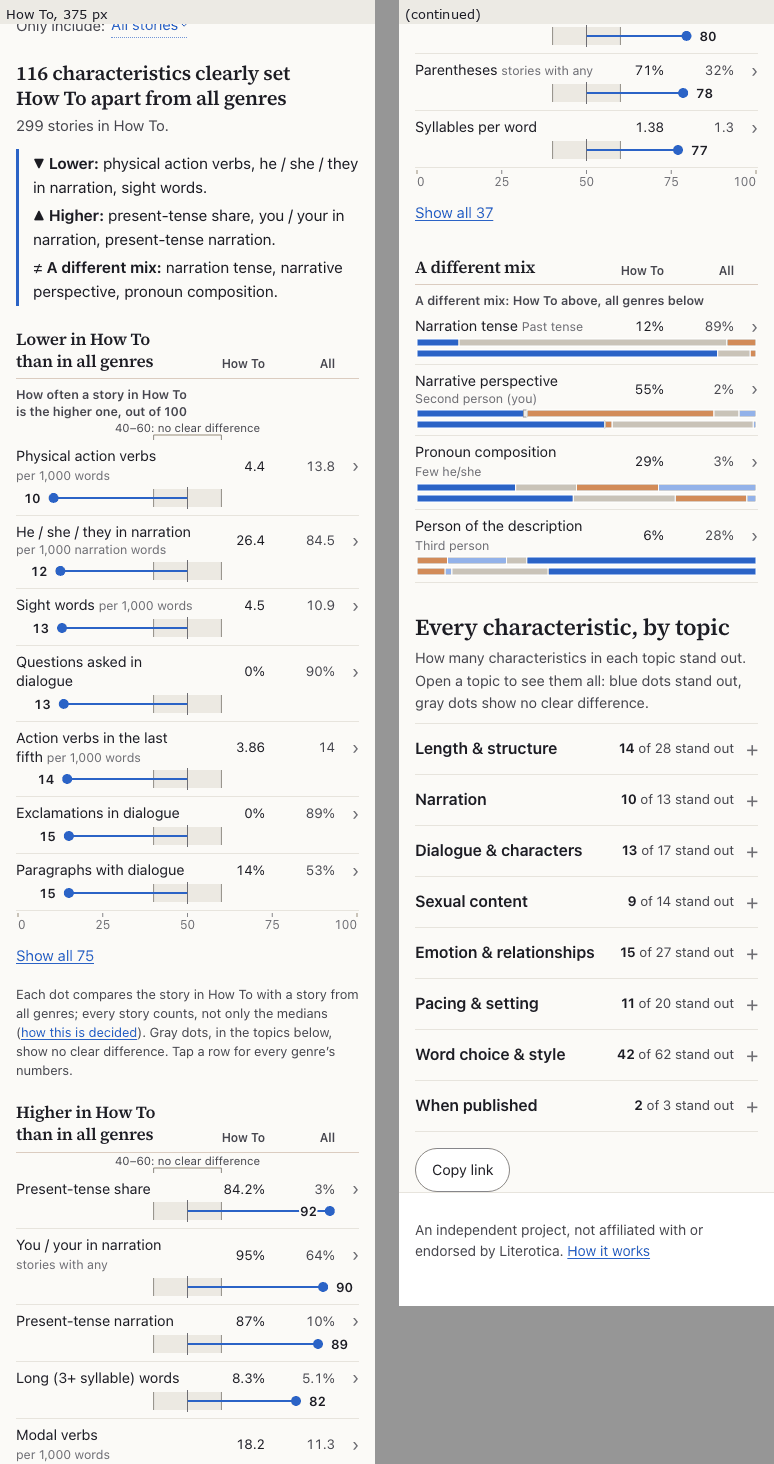
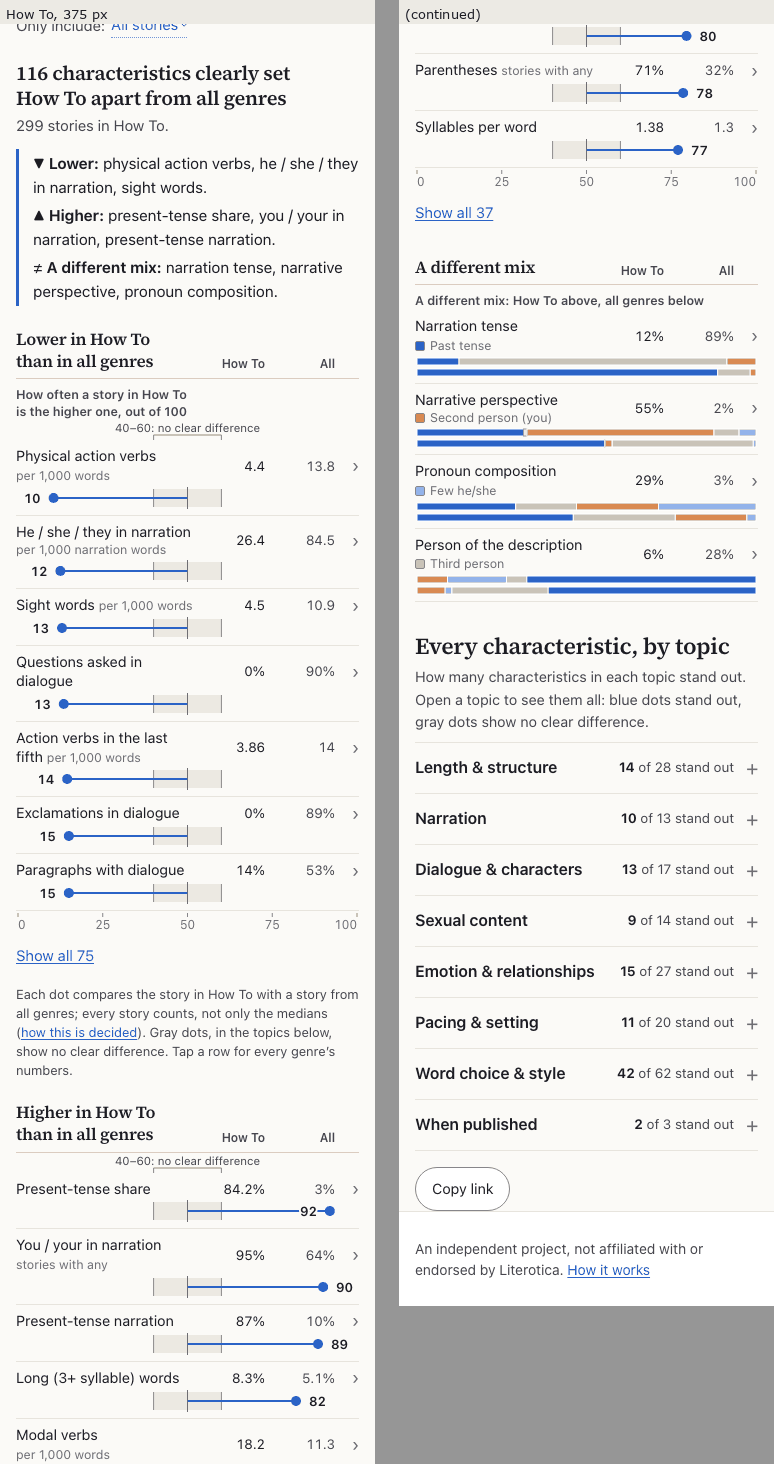
Stage 2 one genre: the mix line's follow-up, measured and read again
docs/stage2/ONE_GENRE_REVIEW.md, new section 10.8: the owner's three changes of October 11 (the mix line right over
each named-group row in a topic, "Romance above, all genres below" there, a swatch for the printed group), as built in
4668a12; the status line, 10.4, judgment call 17 and 10.6 point to it.

Measured on the final build: 0 glyph-box problems in 360 pages with either font, now with 1,424 topic lines and 1,680
swatches checked too; the bad-break check's output the same line for line; axe 0 in 30 runs; label in name passes;
forced colors draw the swatches and the lines; first load 148.5 KiB, unchanged; a visit on View 2 204.3 KiB.

The stand-ins again (the phone's topic screens now reach "Pronoun composition"; one more question, Q11): the mix line
confused 0/6 (6/6 before); 6/6 read which bar is which from the line and tied "44%" and "30%" to the gray "Both he and
she" part through the swatch. New, 6/6: the other three colors have no label, and what the bars split ("% of" what)
isn't said; both left open for the owner, since their words would be new.

After screenshots a03, a04, a05, a06, a08, a09 and a10 redone from the final build.

Changed region(s): [[0.5271, 0.2152, 0.9922, 0.8914]]

diff --git a/docs/stage2/ONE_GENRE_REVIEW.md b/docs/stage2/ONE_GENRE_REVIEW.md
@@ -3,7 +3,8 @@
 *Phases 0–3 of `STAGE2_ONE_GENRE_REVIEW_PROMPT.md`, October 10, 2026. Reviewed: `main` at `692939e` ("Stage 2 genres
 review: before and after, the README and the prompt"). **Status: approved and implemented** on branch `one-genre` (from
 `main` at `0d8611d`, October 10–11, 2026), following `STAGE2_ONE_GENRE_IMPLEMENTATION_PROMPT.md`: R3, S1 and T1 with the
-quick wins. Not pushed. What was built, measured and left open is in section 10.*
+quick wins. Not pushed. What was built, measured and left open is in section 10; your follow-up on the mix line
+(October 11) is in 10.8.*
 
 - **A branch to know about.** While I wrote this, your working copy moved to `simplify-png`: eleven commits after
   `692939e`, since merged into `main` as `0d8611d`. On View 2 it removes three things this review covers:
@@ -1044,7 +1045,8 @@ table that no longer exists and isn't scored.
   Every stand-in rated the page 3 of 5, as in all 60 earlier runs.
 - **New: the mix line over an open topic** confused 6/6. "In the Dialogue topic, 'A different mix: Romance above, all
   genres below' sits at the top but seems to describe only the last row's multicolored bars." The approved design puts
-  it over a topic whose named-group row is compared; the review's "after" never showed it there. See 10.6.
+  it over a topic whose named-group row is compared; the review's "after" never showed it there. See 10.6. *(After
+  your follow-up, 0/6: 10.8.)*
 - Still, as in the review's "after": "23% vs 17% looks like a real gap" while "Everyday vocabulary 5.86 vs 5.79" stands
   out (6/6), "medians" is an unfamiliar word (4/6), "Zipf scale" and "ratio (1 = random order)" are jargon (6/6).
 - New smaller remarks: the decimals look uneven once trailing zeros go ("10 against 3.79", 4/6); on phones the ticks
@@ -1084,7 +1086,7 @@ table that no longer exists and isn't scored.
 16. **The first list with dots** carries the axis title and the note (Lower, else Higher); a genre whose only list is
     "A different mix" (none in the data) would have them in its open topics.
 17. **With no list, an open topic** with a compared named-group row has the axis title, then the mix line: the prompt
-    asks for both.
+    asks for both. *(Since October 11 the mix line sits over the named-group row itself: 10.8.)*
 18. **The story-age skip works across the lines**: story age goes when publication year is among any line's shown items,
     and a line left with nothing goes (Transgender with "Under 2,000 words", Fetish with "5,000 words or more").
 19. **The scroll position is kept** when scrolling stops (300 ms), on each change and just before a link inside the
@@ -1118,9 +1120,9 @@ table that no longer exists and isn't scored.
 - **A real phone and VoiceOver** (decision 10): everything was checked in headless Chromium with touch emulation and
   emulated forced colors, and with Testing Library; not on an iPhone, and not with VoiceOver, TalkBack or NVDA. Safari
   and Firefox are untested too (`text-wrap: balance` needs Safari 17.5 or Firefox 121; older ones wrap normally).
-- **The mix line in an open topic confused 6/6 stand-ins** (10.4): it sits over the topic's first row, while only one
-  row, the named groups', has the two bars, whose colors have no key on this page. Putting the line right over that
-  row, or keying its groups' colors, would need your yes: the prompt places it over the topic.
+- ~~**The mix line in an open topic confused 6/6 stand-ins** (10.4): it sits over the topic's first row, while only
+  one row, the named groups', has the two bars, whose colors have no key on this page.~~ Changed on October 11 at your
+  word: the line over each named-group row, shorter in topics, and a swatch for the printed group (10.8).
 - **What the stand-ins still trip on**, all outside "Copy": the rule judges every story, so "23% vs 17%" can show no
   clear difference while "5.86 vs 5.79" stands out (6/6); "medians" (4/6); the data's own unit texts "Zipf scale" and
   "ratio (1 = random order)" (6/6, decision 7 keeps them); uneven decimals once trailing zeros go (4/6); the ticks
@@ -1145,3 +1147,87 @@ table that no longer exists and isn't scored.
 - **R1, R2's bars and S2**: not chosen.
 - **The D10 word in the unit line** ("later · of the way through the story"): the review's second test found it
   harder to read, and the mock-up shown dropped it.
+
+### 10.8 Your follow-up: the mix line over its row, and a swatch (October 11)
+
+After the stand-ins' reading (10.4, 10.6), you chose three changes: the mix line moves from the top of an open topic
+to right over each named-group row; in topics it says only "Romance above, all genres below"; and a swatch of the
+printed group's color goes before its name under the label. Built in `4668a12`; this write-up and the redone
+screenshots are the commit after it. Not pushed.
+
+**What changed**
+
+- **The line in a topic** sits in the named-group row's list item, right over the row: wide, from where the row's
+  bars start (264 px in: the label's 250, the gap and the plot's 2); stacked, from the row's edge, with the page's
+  other captions. Romance has four such rows: "Length & structure"'s 22nd of 28, "Narration"'s 1st and 3rd of 13
+  (so two lines there), "Dialogue & characters"' 18th of 18. A topic with no list above it (Fetish) keeps its axis
+  title at the top and its note at the end, as before.
+- **The "A different mix" list** keeps "A different mix: Romance above, all genres below" over its rows (12 of the 30
+  genres have one with All stories). Only the topics' line is shorter.
+- **The swatch**: 10 px, outlined in `--control` (3.3:1 on the page whatever its color, as View 1's legend swatches
+  are), kept on one line with the group name's first word; its color is that group's in both bars (`mixColors`: the
+  largest group across all genres darkest). Where a named group has no bars (too few stories to compare) there is no
+  swatch and no line: the forced-colors check found swatches there, fixed before the commit.
+- **Screen readers**: the row's name already gives every group's share in both ("Pronoun composition: Romance Mostly
+  she/her 36%, Both he and she 44%, …"), and the swatch is in the hidden unit line; the topic's line is read before
+  its row, as the list's line is.
+
+**Measured** on the final build, frozen and served with gzip, with copies of the checks that add the line and the
+swatch (`v2glyphs-mix.mjs`, `v2wraps-mix.mjs`, `forcedgenres-mix.mjs`; with `mixshots.mjs`, `mixlist.mjs`,
+`fewshot.mjs`, `aftershots-mix.mjs` and `freshshots-mix.mjs`), kept with the others in
+`Claude outputs/design-review-2-tools/one-genre-review/after/` and their outputs in its `out/mix/`:
+
+| Measure | `ef1e7a1` | Now |
+|---|---|---|
+| Glyph boxes: 30 genres × 3 options × 320, 375, 768, 1440 px, each font | 0 problems | **0 with the site font and 0 with Verdana**, the same 76,328 rows; plus 1,424 topic lines (each over its own row, on neither it nor what is above, starting where it should, inside the row) and 1,680 swatches (on their word's line, inside the label's cell, on no number) |
+| Bad breaks, every genre, both fonts, 4 widths | 0 | **0**: the check's whole output is the same line for line (only the known one-word last lines of labels, topics and notes) |
+| axe-core (30 runs) / label in name | 0 / passes | **0 / passes** |
+| Forced colors, light and dark | every mark draws | every mark draws, and the swatches (their color, a CanvasText outline) and the lines |
+| First load | 148.5 KiB, 6 requests | **148.5 KiB**: the main script is the same but for the chunks' names |
+| A visit that starts on View 2 | 204.1 KiB, 8 requests | 204.3 KiB, 8 requests |
+| The Genres chunk, as Vite counts it | 58.06 kB, 18.59 kB gzipped; CSS 13.86 kB, 3.48 kB | 58.52 kB, 18.74 kB gzipped; CSS 14.21 kB, 3.54 kB |
+| Tests | 356 in 29 files | 359 in 29 files; `npm run build` and the 204 pytest tests pass |
+
+**Screenshots**: a03, a04, a05, a06, a08, a09 and a10 are redone from the final build (a04 and a08 because the open
+topic's rows moved up by the line's height); the others are unchanged.
+
+![An open topic, after the follow-up](one-genre-review/a03-open-topic-375-1440.png)
+
+**Fresh eyes again**: the six stand-ins of 10.4 (the same situation lines, questions and rubric) on screens from the
+final build. The phone's topic screens now run to the topic's end: in 10.4 they stopped two rows short of "Pronoun
+composition", so its phone stand-ins saw the line but never the bars. After Q10 each got one more question, Q11: what
+the two bars show and which is which, and what "44%" and "30%" go with. Answers in `fresh-eyes/built-mix.md`, scored
+in `scores.md` ("built-mix").
+
+| | The mix line confused them | Q11: which bar is which | Q11: what 44% and 30% go with | Q11: what the other colors are | Q4, Q5, Q7, Q9b; gray dots read right |
+|---|---|---|---|---|---|
+| Built (10.4) | 6/6 | not asked | not asked | not asked | 6/6 each |
+| **Now** | **0/6** | **6/6**, from the line | **6/6**: the gray "Both he and she" part, from the swatch | 0/6 | 6/6 each |
+
+- No answer to Q1–Q10 mentions the line. In Q11: "The label 'Romance above, all genres below' tells me the top bar is
+  Romance and the bottom bar is all genres", and "44% and 30% go with the gray 'Both he and she' part, because its
+  legend square matches".
+- **New, 6/6: the other three colors have no label** ("four colors but a legend for only one"), and in Q11 none can
+  tell what they are, or whether the bars split stories or pronouns ("the page doesn't say '% of' what"). The swatch
+  keys the one group the row prints, so readers now ask for the rest. See "Still open" below.
+- The rest as in 10.4: "23% vs 17%" against "5.86 vs 5.79" (6/6), "medians" (6/6), "Zipf scale" (6/6), the dot
+  score explained once (6/6), an open topic "a long wall" of gray rows (3/3 desktop). Five rated the page 3 of 5; one
+  said 4 for the gist and 3 for the charts (every earlier run said 3).
+
+**Still open (each needs your yes)**
+
+- **The named groups' other colors**: a key for all of a row's groups, as View 1's legend has ("■ Mostly she/her
+  ■ Both he and she ■ Mostly he/him ■ Few he/she"), under the bars or in place of the one name; it would add a line
+  to each such row, and its words are new.
+- **What the bars split**: "% of stories" somewhere on the row (each story counts once, in the group its pronouns put
+  it in), e.g. in the unit line after the group's name. New words too.
+
+**My calls here**
+
+1. **The topic's line is read by screen readers**, as the list's line is, though it is about bars they don't get;
+   the row's name right after it has every share.
+2. **Wide, the line starts where the bars do; stacked, at the row's edge** (2 px left of the bars), where the axis
+   title and the list's line start.
+3. **Each named-group row gets its own line**, so "Narration" has two, two rows apart.
+4. **No swatch where the bars aren't drawn** (too few stories to compare), since there would be nothing for it to
+   key; the group's name stays.
